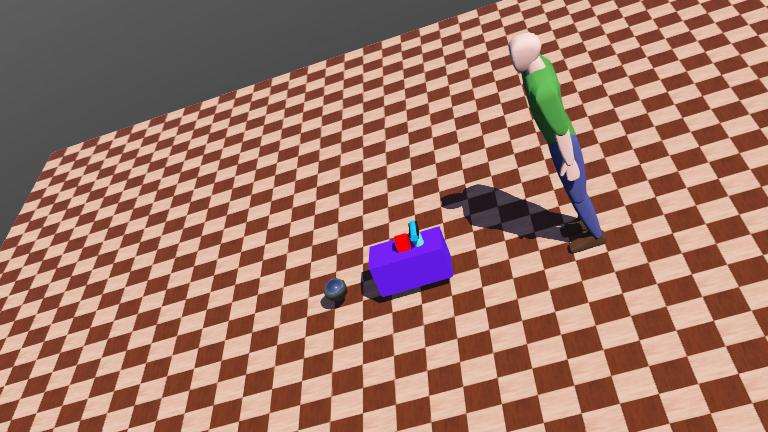
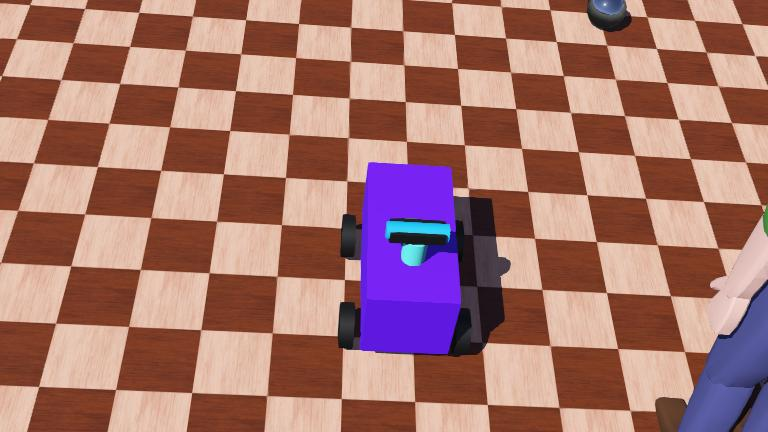
Have a working pedestrian movement, need to add animation if time. Also has a better proto for the robot

diff --git a/User_Tracking/Webots/Webots_FP/controllers/supervisor_controller/supervisor_controller.py b/User_Tracking/Webots/Webots_FP/controllers/supervisor_controller/supervisor_controller.py
@@ -1,0 +1,137 @@
+"""supervisor_controller controller."""
+
+# You may need to import some classes of the controller module. Ex:
+#  from controller import Robot, Motor, DistanceSensor
+from controller import Supervisor
+from controller import Keyboard
+import random as randint
+import numpy as np 
+import time
+import csv
+import math
+
+#class to control pedestrian.
+class Pedestrian ():
+    """Control a Pedestrian PROTO."""
+
+    def __init__(self):
+        """Constructor: initialize constants."""
+        self.BODY_PARTS_NUMBER = 13
+        self.WALK_SEQUENCES_NUMBER = 8
+        self.ROOT_HEIGHT = 1.27
+        self.CYCLE_TO_DISTANCE_RATIO = 0.22
+        self.speed = 1.15
+        self.current_height_offset = 0
+        self.joints_position_field = []
+        self.joint_names = [
+            "leftArmAngle", "leftLowerArmAngle", "leftHandAngle",
+            "rightArmAngle", "rightLowerArmAngle", "rightHandAngle",
+            "leftLegAngle", "leftLowerLegAngle", "leftFootAngle",
+            "rightLegAngle", "rightLowerLegAngle", "rightFootAngle",
+            "headAngle"
+        ]
+        self.height_offsets = [  # those coefficients are empirical coefficients which result in a realistic walking gait
+            -0.02, 0.04, 0.08, -0.03, -0.02, 0.04, 0.08, -0.03
+        ]
+        self.angles = [  # those coefficients are empirical coefficients which result in a realistic walking gait
+            [-0.52, -0.15, 0.58, 0.7, 0.52, 0.17, -0.36, -0.74],  # left arm
+            [0.0, -0.16, -0.7, -0.38, -0.47, -0.3, -0.58, -0.21],  # left lower arm
+            [0.12, 0.0, 0.12, 0.2, 0.0, -0.17, -0.25, 0.0],  # left hand
+            [0.52, 0.17, -0.36, -0.74, -0.52, -0.15, 0.58, 0.7],  # right arm
+            [-0.47, -0.3, -0.58, -0.21, 0.0, -0.16, -0.7, -0.38],  # right lower arm
+            [0.0, -0.17, -0.25, 0.0, 0.12, 0.0, 0.12, 0.2],  # right hand
+            [-0.55, -0.85, -1.14, -0.7, -0.56, 0.12, 0.24, 0.4],  # left leg
+            [1.4, 1.58, 1.71, 0.49, 0.84, 0.0, 0.14, 0.26],  # left lower leg
+            [0.07, 0.07, -0.07, -0.36, 0.0, 0.0, 0.32, -0.07],  # left foot
+            [-0.56, 0.12, 0.24, 0.4, -0.55, -0.85, -1.14, -0.7],  # right leg
+            [0.84, 0.0, 0.14, 0.26, 1.4, 1.58, 1.71, 0.49],  # right lower leg
+            [0.0, 0.0, 0.42, -0.07, 0.07, 0.07, -0.07, -0.36],  # right foot
+            [0.18, 0.09, 0.0, 0.09, 0.18, 0.09, 0.0, 0.09]  # head
+        ]
+
+        self.max_velocity = 1.4;
+
+        #set initial value of parameters
+        self.sim_time = 0
+        self.angles = 0
+        self.num_steps = 0
+        self.action = 0
+        self.current_step = 0
+        self.rotation = 0
+        self.velocity = 0
+        self.keyboard = Keyboard()
+        self.keyboard.enable(1000)
+        print('initalizing done')
+
+
+    def execute_step(self):
+        return 0
+
+    def get_next_step(self):
+        return 0
+
+    def animate(self):
+        return 0;
+
+    def update_postion(self, trans, rot, timestep):
+        time_delta = timestep/1000
+        angle = self.rotation
+        dx = math.cos(angle)*self.velocity
+        dy = math.sin(angle)*self.velocity
+        new_trans = [trans[0]+dx, trans[1]+dy, trans[2]]
+        new_rot = [rot[0], rot[1], rot[2], angle]
+        return new_trans, new_rot
+    def get_keyboard_value(self):
+        stop_boolean = False
+        key = self.keyboard.getKey()
+
+        if key == 88: #if x then stop
+            self.velocity = 0
+            stop_boolean = True
+            print("person stopped")
+        elif key == 87: #if w then speed up
+            self.velocity += 0.01
+            if self.velocity >= self.max_velocity:
+               self.velocity = self.max_velocity
+            print(self.velocity)
+        elif key == 83: #if s then slow down
+            self.velocity -= 0.01
+            if self.velocity < 0:
+                self.velocity = 0
+            print(self.velocity)
+        elif key == 65:
+            #rotate left
+            self.rotation +=0.17 #10 degrees
+            print('rotating left')
+        elif key == 68:
+            #rotate right
+            self.rotation -= 0.17  # 10 degrees
+            print('rotating right')
+            
+        return stop_boolean
+
+TIME_STEP = 15
+
+robot = Supervisor()
+
+controller = Pedestrian()
+#controller.run()
+root_node = robot.getRoot()
+children_field = root_node.getField('children')
+
+user_node = robot.getFromDef('USER')
+user_translation = user_node.getField('translation')
+user_rotation = user_node.getField('rotation')
+i = 0
+while robot.step(TIME_STEP) != -1:
+    if i == 3:
+        controller.get_keyboard_value()
+        i = 0
+    position = user_node.getPosition()
+    rotation = user_rotation.getSFRotation()
+    new_pose, new_rotation = controller.update_postion(position, rotation, TIME_STEP)
+    user_translation.setSFVec3f(new_pose)
+    user_rotation.setSFRotation(new_rotation)
+    i += 1
+
+
